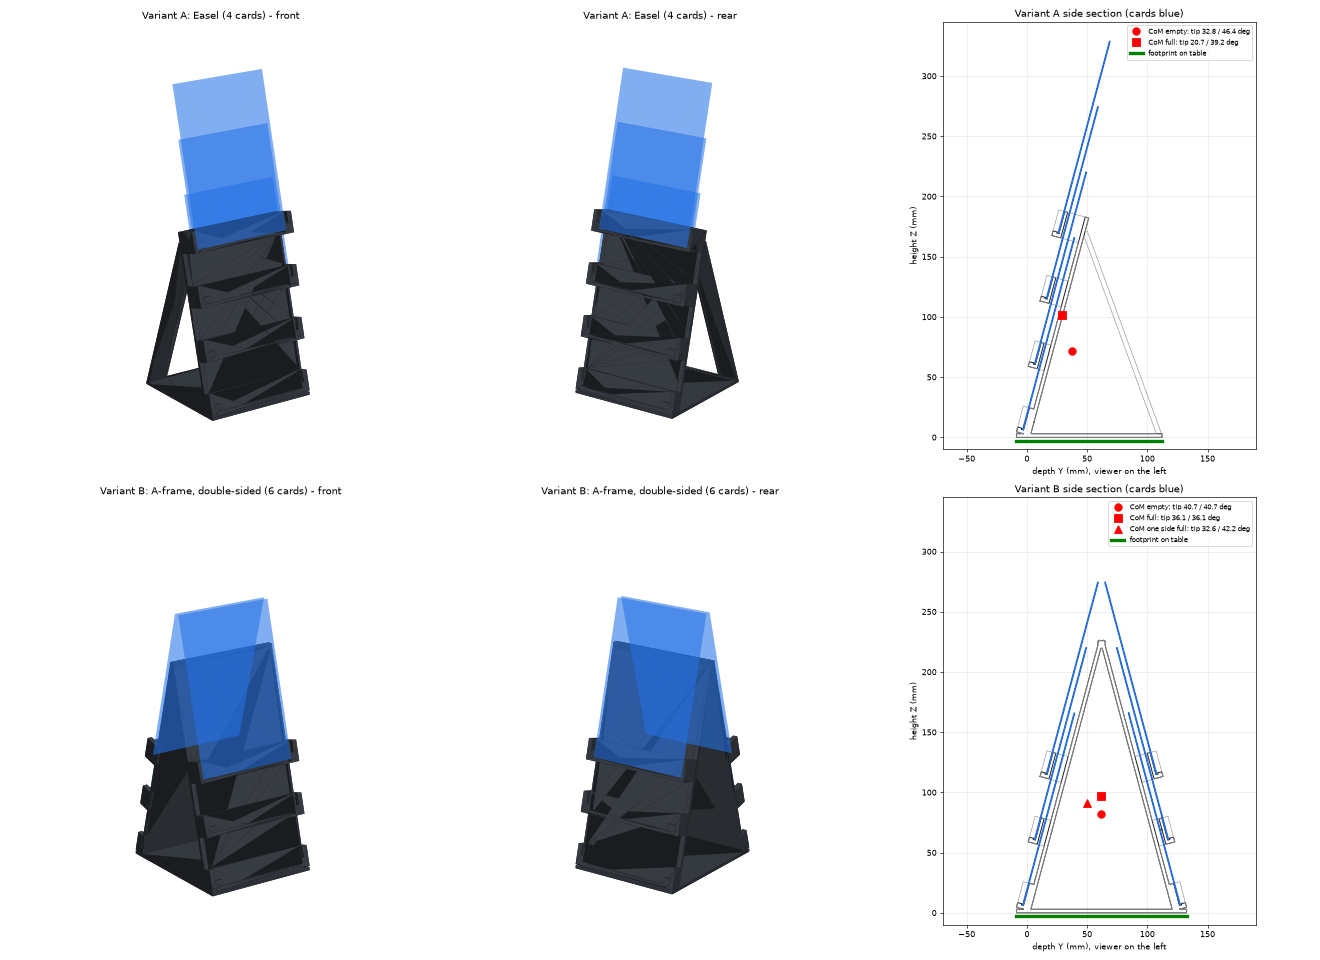
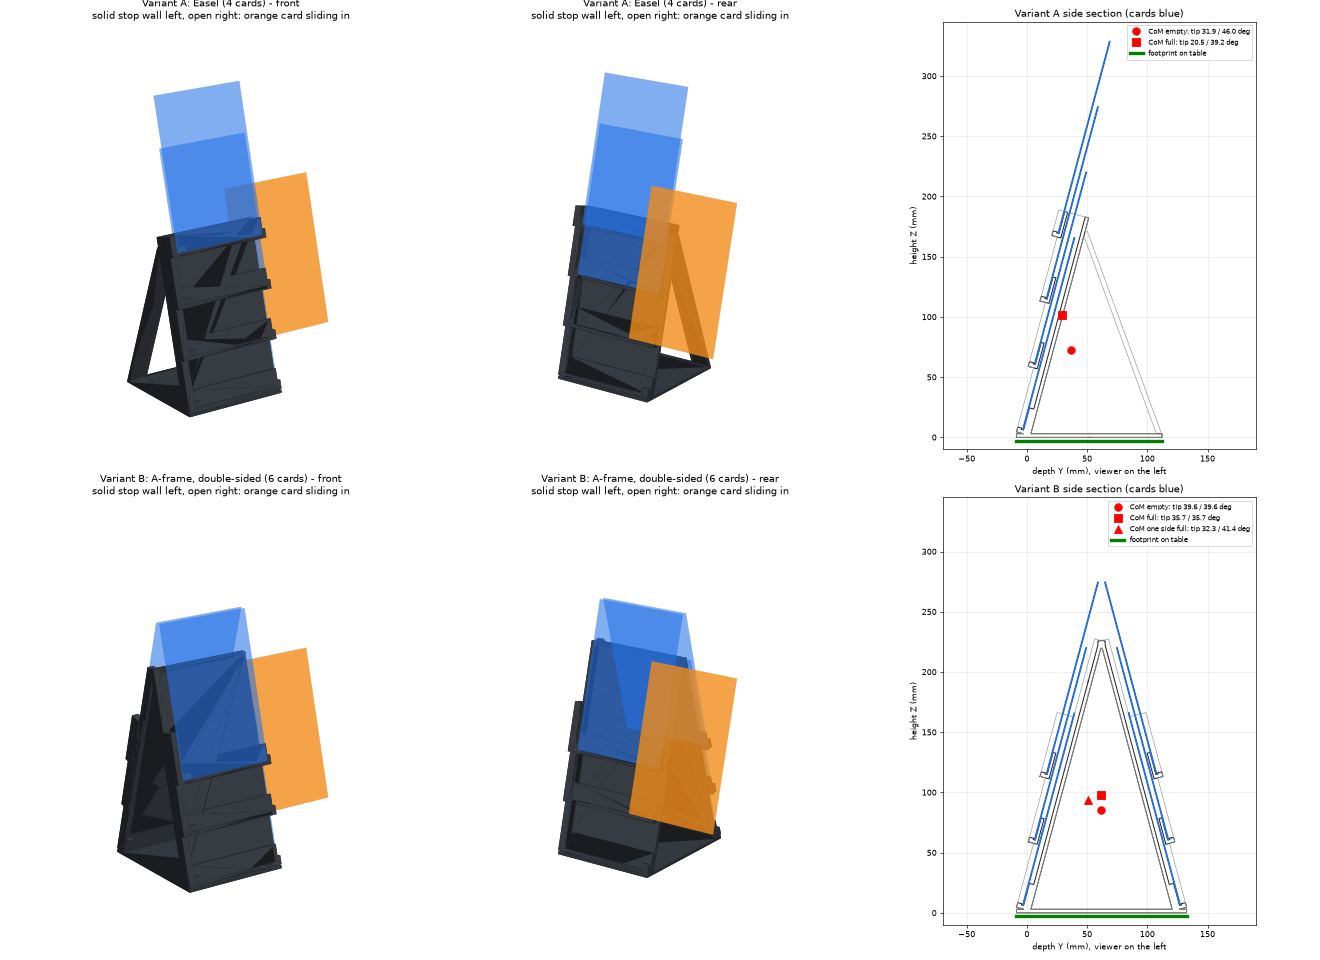
Tabletop stands: open right end for side loading, solid left stop wall
Cards now slide into stands A and B from the right and stop against a
solid 8 mm stepped left end wall that also holds every ledge. Checked:
every card's side-slide path is clear, the wall stops every card, no
card touches the stand or the other face, stability unchanged (A 21/39
deg full, B 32/41 deg one face full). Prints on the left wall with no
overhangs at all.

Claude-Session: https://claude.ai/code/session_01FiYQCZWyB2tcRXgXW4cx9g

diff --git a/3d-models/build_table_stands.py b/3d-models/build_table_stands.py
@@ -15,7 +15,8 @@ ALPHA  = np.radians(15.0)              # face tilted back from vertical
 PANEL  = 3.0                           # back panel thickness
 LP     = (N-1)*PITCH + 22.0            # panel length along the face (to the top ledge's back wall)
 BASE_T = 3.0
-X0, X1 = -CHEEK, W_IN + CHEEK
+STOP_T = 8.0                           # solid left end wall: holds every ledge and stops the card
+X0, X1 = -STOP_T, W_IN                 # right end fully open so cards slide in from the side
 
 def tier(k):
     y0 = PITCH*k
@@ -26,12 +27,12 @@ def tier(k):
              box(bounds=[[0, y0, zl], [W_IN, y0+4, zf]]),            # front lip (4 mm)
              box(bounds=[[0, y0, zg+1.3], [9, y0+10, zf]]),          # 10 mm corner supports (groove 1.3 mm here)
              box(bounds=[[W_IN-9, y0, zg+1.3], [W_IN, y0+10, zf]]),
-             box(bounds=[[X0, y0, -PANEL], [0, y0+22, zf]]),         # end brackets tie the ledge to the panel,
-             box(bounds=[[W_IN, y0, -PANEL], [X1, y0+22, zf]])]      # outside the card width
+             box(bounds=[[X0, y0, -PANEL], [0, min(y0+PITCH, LP), zf]])]   # left end wall segment (card stop)
     return parts
 
 def face():
-    return U(box(bounds=[[X0, 0, -PANEL], [X1, LP, 0]]), *[p for k in range(N) for p in tier(k)])
+    return U(box(bounds=[[X0, 0, -PANEL], [X1, LP, 0]]), box(bounds=[[X0, 0, -PANEL], [0, LP, 4.0]]),
+             *[p for k in range(N) for p in tier(k)])
 
 s, c = np.sin(ALPHA), np.cos(ALPHA)
 TILT = np.array([[1,0,0,0],[0,s,-c,0],[0,c,s,0],[0,0,0,1]], float)   # rack (x,y,z) -> world (x,Y,Z)
@@ -120,11 +121,20 @@ for v in 'AB':
     # card clearance: every card slab must be free of the stand
     clash = sum(trimesh.boolean.intersection([body, cs], engine='manifold').volume
                 for sd in sides for cs in card_slabs(lift, yc, sd))
+    slide = 0.0
+    for sd in sides:
+        for k in range(N):
+            zg = 3.7 + STEP*k + 0.3
+            p = box(bounds=[[1.5 - X0, PITCH*k + 3.2, zg], [W_IN - X0 + 150 + CARD_W, PITCH*k + 3.2 + CARD_H, zg + 0.5]])
+            p.apply_transform(TILT); p.apply_translation([0, 0, lift])
+            if sd < 0: p.apply_transform(np.array([[1,0,0,0],[0,-1,0,2*yc],[0,0,1,0],[0,0,0,1]], float))
+            slide += trimesh.boolean.intersection([body, p], engine='manifold').volume
+    stop_gap = None
     cross = 0.0
     if v == 'B':
         fr, rr = card_slabs(lift, yc, +1), card_slabs(lift, yc, -1)
         cross = sum(trimesh.boolean.intersection([a, b], engine='manifold').volume for a in fr for b in rr)
-    report[v] = dict(front_vs_rear_card_clash_mm3=round(cross, 3), tiers_per_face=N, panel_len_mm=LP, watertight=bool(body.is_watertight), parts=len(body.split()),
+    report[v] = dict(side_slide_path_blocked_mm3=round(slide, 3), front_vs_rear_card_clash_mm3=round(cross, 3), tiers_per_face=N, panel_len_mm=LP, watertight=bool(body.is_watertight), parts=len(body.split()),
                      size_mm=[round(e, 1) for e in body.extents], print_on_side_footprint_mm=[round(body.extents[1], 1), round(body.extents[2], 1)],
                      print_height_mm=round(body.extents[0], 1), filament_g_solid=round(stand_g, 1),
                      cards=len(sides)*N, card_clash_mm3=round(clash, 3), stability=res)

diff --git a/3d-models/render_table_stands.py b/3d-models/render_table_stands.py
@@ -2,7 +2,7 @@ import trimesh, numpy as np, json, matplotlib; matplotlib.use('Agg'); import mat
 from mpl_toolkits.mplot3d.art3d import Poly3DCollection
 import importlib.util
 spec = importlib.util.spec_from_file_location('ts', 'table_stands.py')
-src = open('table_stands.py').read().split('report = {}')[0]      # reuse helpers without rebuilding
+src = open('table_stands.py').read().split('CONFIG = {')[0]      # reuse helpers without rebuilding
 ns = {}; exec(src, ns)
 CFG = {'A': (4, 3*55.0+22.0), 'B': (3, 232.0)}
 rep = json.load(open('table_stands_report.json'))
@@ -19,11 +19,14 @@ for row, v in enumerate('AB'):
         pc = Poly3DCollection(body.triangles, edgecolor='none'); n = body.face_normals
         sh = 0.4 + 0.6*np.clip(n @ np.array([0.4, -0.6, 0.7]), 0, 1)
         pc.set_facecolor(np.c_[sh*0.25, sh*0.27, sh*0.3, np.ones_like(sh)]); a.add_collection3d(pc)
-        for cdx in cards:
-            cc = Poly3DCollection(cdx.triangles, edgecolor='none'); cc.set_facecolor((0.15, 0.45, 0.9, 0.35)); a.add_collection3d(cc)
-        a.set_xlim(-10, 140); a.set_ylim(-60, 180); a.set_zlim(0, 340); a.set_box_aspect((150, 240, 340))
+        for i, cdx in enumerate(cards):
+            sliding = (i == 1)                      # second card shown half-way through sliding in from the open end
+            cm = trimesh.Trimesh(cdx.vertices + ([75, 0, 0] if sliding else [0, 0, 0]), cdx.faces)
+            cc = Poly3DCollection(cm.triangles, edgecolor='none')
+            cc.set_facecolor((0.95, 0.55, 0.1, 0.55) if sliding else (0.15, 0.45, 0.9, 0.35)); a.add_collection3d(cc)
+        a.set_xlim(-10, 200); a.set_ylim(-60, 180); a.set_zlim(0, 340); a.set_box_aspect((210, 240, 340))
         a.view_init(elev, azim); a.set_axis_off()
-        a.set_title(f"Variant {v}: {'Easel (4 cards)' if v=='A' else 'A-frame, double-sided (6 cards)'}" + (' - front' if col == 0 else ' - rear'))
+        a.set_title(f"Variant {v}: {'Easel (4 cards)' if v=='A' else 'A-frame, double-sided (6 cards)'}" + (' - front' if col == 0 else ' - rear') + '\nsolid stop wall left, open right: orange card sliding in')
     # side profile with CoM
     a = fig.add_subplot(2, 3, row*3 + 3)
     s = body.section(plane_origin=[60, 0, 0], plane_normal=[1, 0, 0])

diff --git a/3d-models/TABLETOP_STANDS.md b/3d-models/TABLETOP_STANDS.md
@@ -9,23 +9,27 @@ on the printed wall rack.
 |---|---|---|
 | Use | Desk against a wall, one viewing side | Free-standing (table centre, shelf), both sides |
 | Cards | 4 (one face, 4 tiers) | 6 (two faces, 3 tiers each) |
-| Size W × D × H | 121 × 121 × 189 mm | 121 × 141 × 226 mm |
-| Filament (solid, PLA) | ~240 g | ~364 g |
+| Size W × D × H | 119 × 121 × 189 mm | 119 × 141 × 227 mm |
+| Filament (solid, PLA) | ~248 g | ~387 g |
+| Card loading | Slide in from the open right end | Slide in from the open right end (both faces) |
 | Card face tilt | 15° back | 15° back on each face |
 
 ## Design decisions
 
-- **Card fits fully inside.** The card is 108 mm wide. The opening between the end walls is 111 mm,
-  leaving 1.5 mm clearance each side. Unlike the wall rack, the ledges are held at both ends, so there is
-  no single-sided cantilever.
+- **Cards slide in from the side.** The right end of every ledge is fully open. A card goes into the
+  groove from the right and slides left until it meets the **solid 8 mm left end wall**, which stops it
+  1.5 mm from home with the 108 mm card fully on the 111 mm ledge. Nothing joins the ledges to the panel
+  at the right end, because any such link would cross the cards' slide path. So each ledge is held from
+  the left wall, the same way the spine holds the ledges on the wall rack.
 - **Face tilt 15°.** Gravity keeps each card seated in its groove and leaning on the card or panel
   behind it. At 0–5° cards can rock forward. Above about 20° the shingled cards slide down onto each
   other and the stand gets deep.
 - **Back panel.** On the wall rack the wall itself holds the card stack. Here a 3 mm panel takes that
   role, sized to cover the bottom card (165 mm). Higher cards lean on the cards below them, as on the
   wall.
-- **How the ledges attach.** The cards pass between each ledge and the panel, so ledges can only attach
-  outside the card width. 5 mm end brackets at both ends tie every ledge to the panel.
+- **How the ledges attach.** The cards pass between each ledge and the panel, so a ledge can only
+  attach outside the card's slide path. The left end wall ties every ledge to the panel. It is stepped to
+  follow each tier's front edge.
 - **Easel support.** Two 22 mm wide rear legs run from just below the panel top to a full-width base
   plate. The panel, legs and base form a rigid triangle. The legs sit only at the ends to save material.
 - **A-frame apex height.** Cards on a leaning face extend past the panel top. If the panels meet too
@@ -41,11 +45,14 @@ angle is how far the stand can be tilted before it falls.
 
 | Case | CoM height | Margin front / rear | Tip angle front / rear | Push at top to tip |
 |---|---|---|---|---|
-| A empty | 71 mm | 46 / 75 mm | 33° / 46° | 0.6 N |
-| A full (4 cards) | 101 mm | 38 / 83 mm | 21° / 39° | 0.8 N |
-| B empty | 82 mm | 71 / 71 mm | 41° / 41° | 1.1 N |
-| B full (6 cards) | 97 mm | 71 / 71 mm | 36° / 36° | 1.9 N |
-| B one face full | 91 mm | 59 / 83 mm | 33° / 42° | 1.2 N |
+| A empty | 73 mm | 46 / 75 mm | 32° / 46° | 0.6 N |
+| A full (4 cards) | 102 mm | 38 / 83 mm | 21° / 39° | 0.8 N |
+| B empty | 85 mm | 71 / 71 mm | 40° / 40° | 1.2 N |
+| B full (6 cards) | 98 mm | 71 / 71 mm | 36° / 36° | 2.0 N |
+| B one face full | 93 mm | 59 / 83 mm | 32° / 41° | 1.3 N |
+
+The exact values are in `table_stands_report.json`. In that file, `side_slide_path_blocked_mm3 = 0`
+confirms that each card's path from 150 mm right of the stand to its stop is clear.
 
 Both pass a 15° tip check, the usual rule of thumb for freestanding furniture items, in every load case.
 The easel's weak direction is forward: that is where the cards are. Its rear foot position (62 mm behind
@@ -54,13 +61,12 @@ Optional: 4 small rubber bumpers under the base corners stop it sliding.
 
 ## Printing
 
-- **Orientation:** on its side (an end wall on the bed), the same way you printed the wall rack. Every
-  panel, ledge, leg and the base runs the full width, so they print as vertical walls. The only overhangs
-  are the end brackets on the top end, which bridge at most about 20 mm between the panel and each
-  ledge. No supports are needed.
+- **Orientation:** on its side, with the solid left end wall on the bed. Every panel, ledge, leg and
+  the base rises straight up from that wall, and the open right end is the top of the print. There are
+  no overhangs or bridges, so no supports are needed.
 - **Bed:** A needs 121 × 189 mm. B needs 141 × 226 mm, which fits a 256 mm bed (Bambu, Prusa XL). On a
   250 × 210 mm bed, place it diagonally.
-- **Print height:** 121 mm for both.
+- **Print height:** 119 mm for both.
 - **Settings:** 3 walls, 15 % infill. The 3 mm panels print essentially solid.
 
 ## Files

diff --git a/3d-models/TABLE_FEET.md b/3d-models/TABLE_FEET.md
@@ -38,8 +38,8 @@ about 33–60 g.
   - Plain: tip angle 30.0° front, 30.8° back, 22.5° sideways.
   - Hinged: tip angle 30.8° front, 31.4° back, 23.8° sideways.
 
-## Why not tabletop stands A and B
+## Feet or tabletop stand?
 
-`table_stand_A_easel.stl` and `table_stand_B_aframe.stl` close both ends of every ledge. That holds the
-card securely, but it means the card can only go in from the top, never from the side. The feet keep
-the wall rack's open-ended grooves, which was the main design goal.
+The tabletop stands (`TABLETOP_STANDS.md`) now also load cards from the side. Use the feet when you want
+one rack that moves between wall and table. Use stand A or B for a dedicated desk piece that leans the
+cards back 15°.
